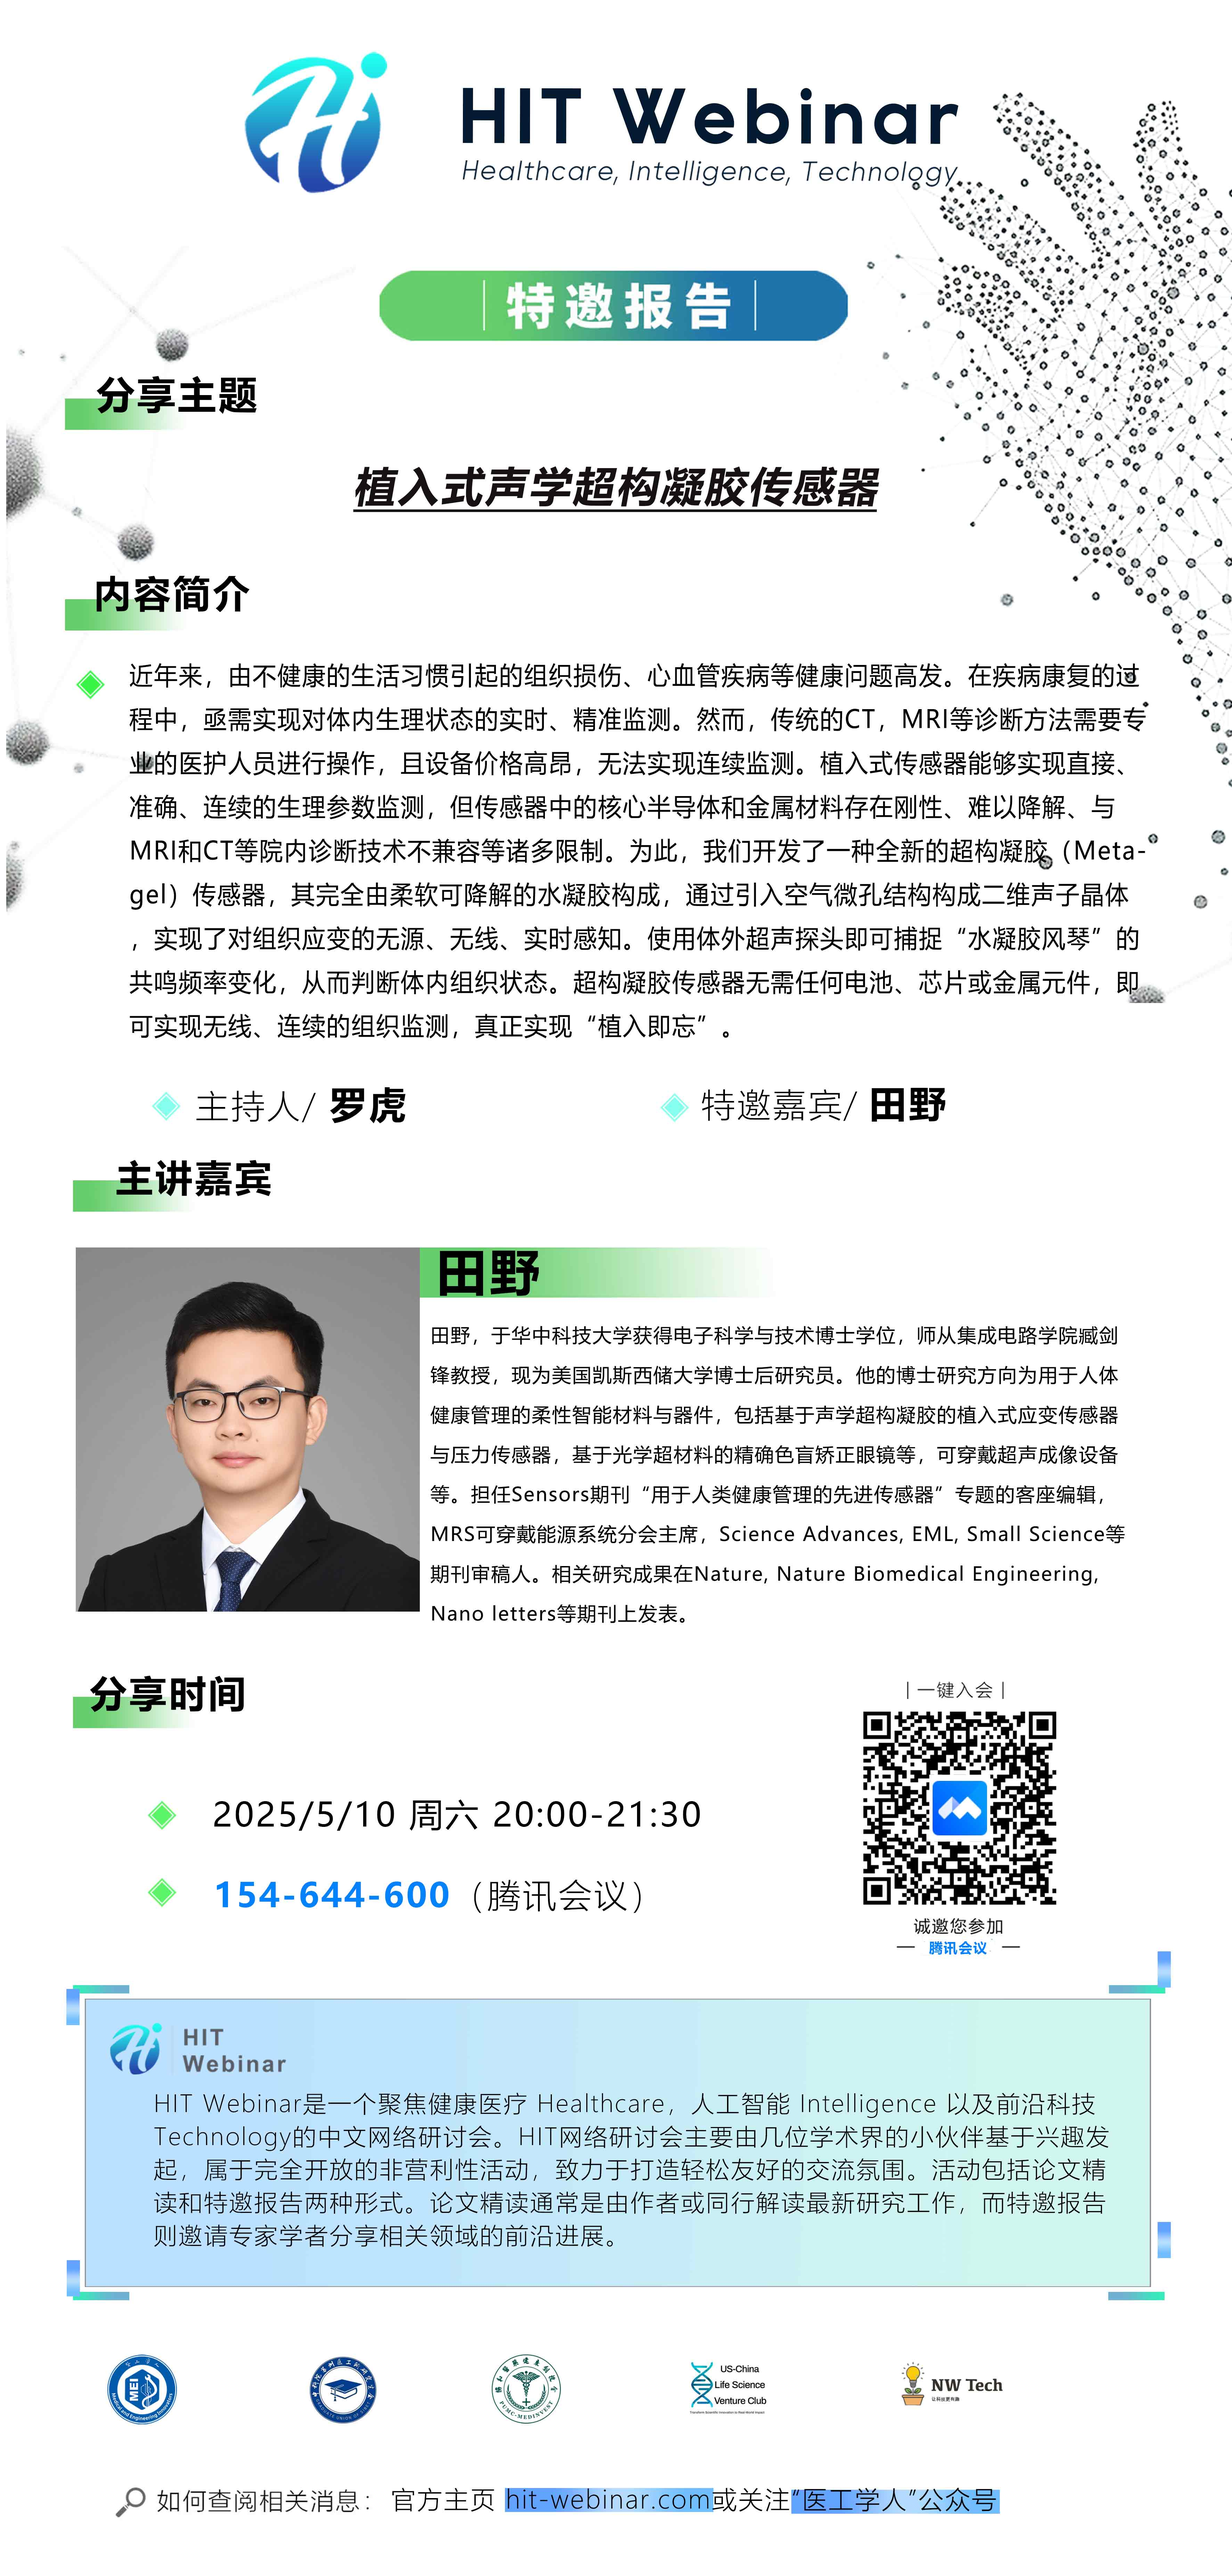
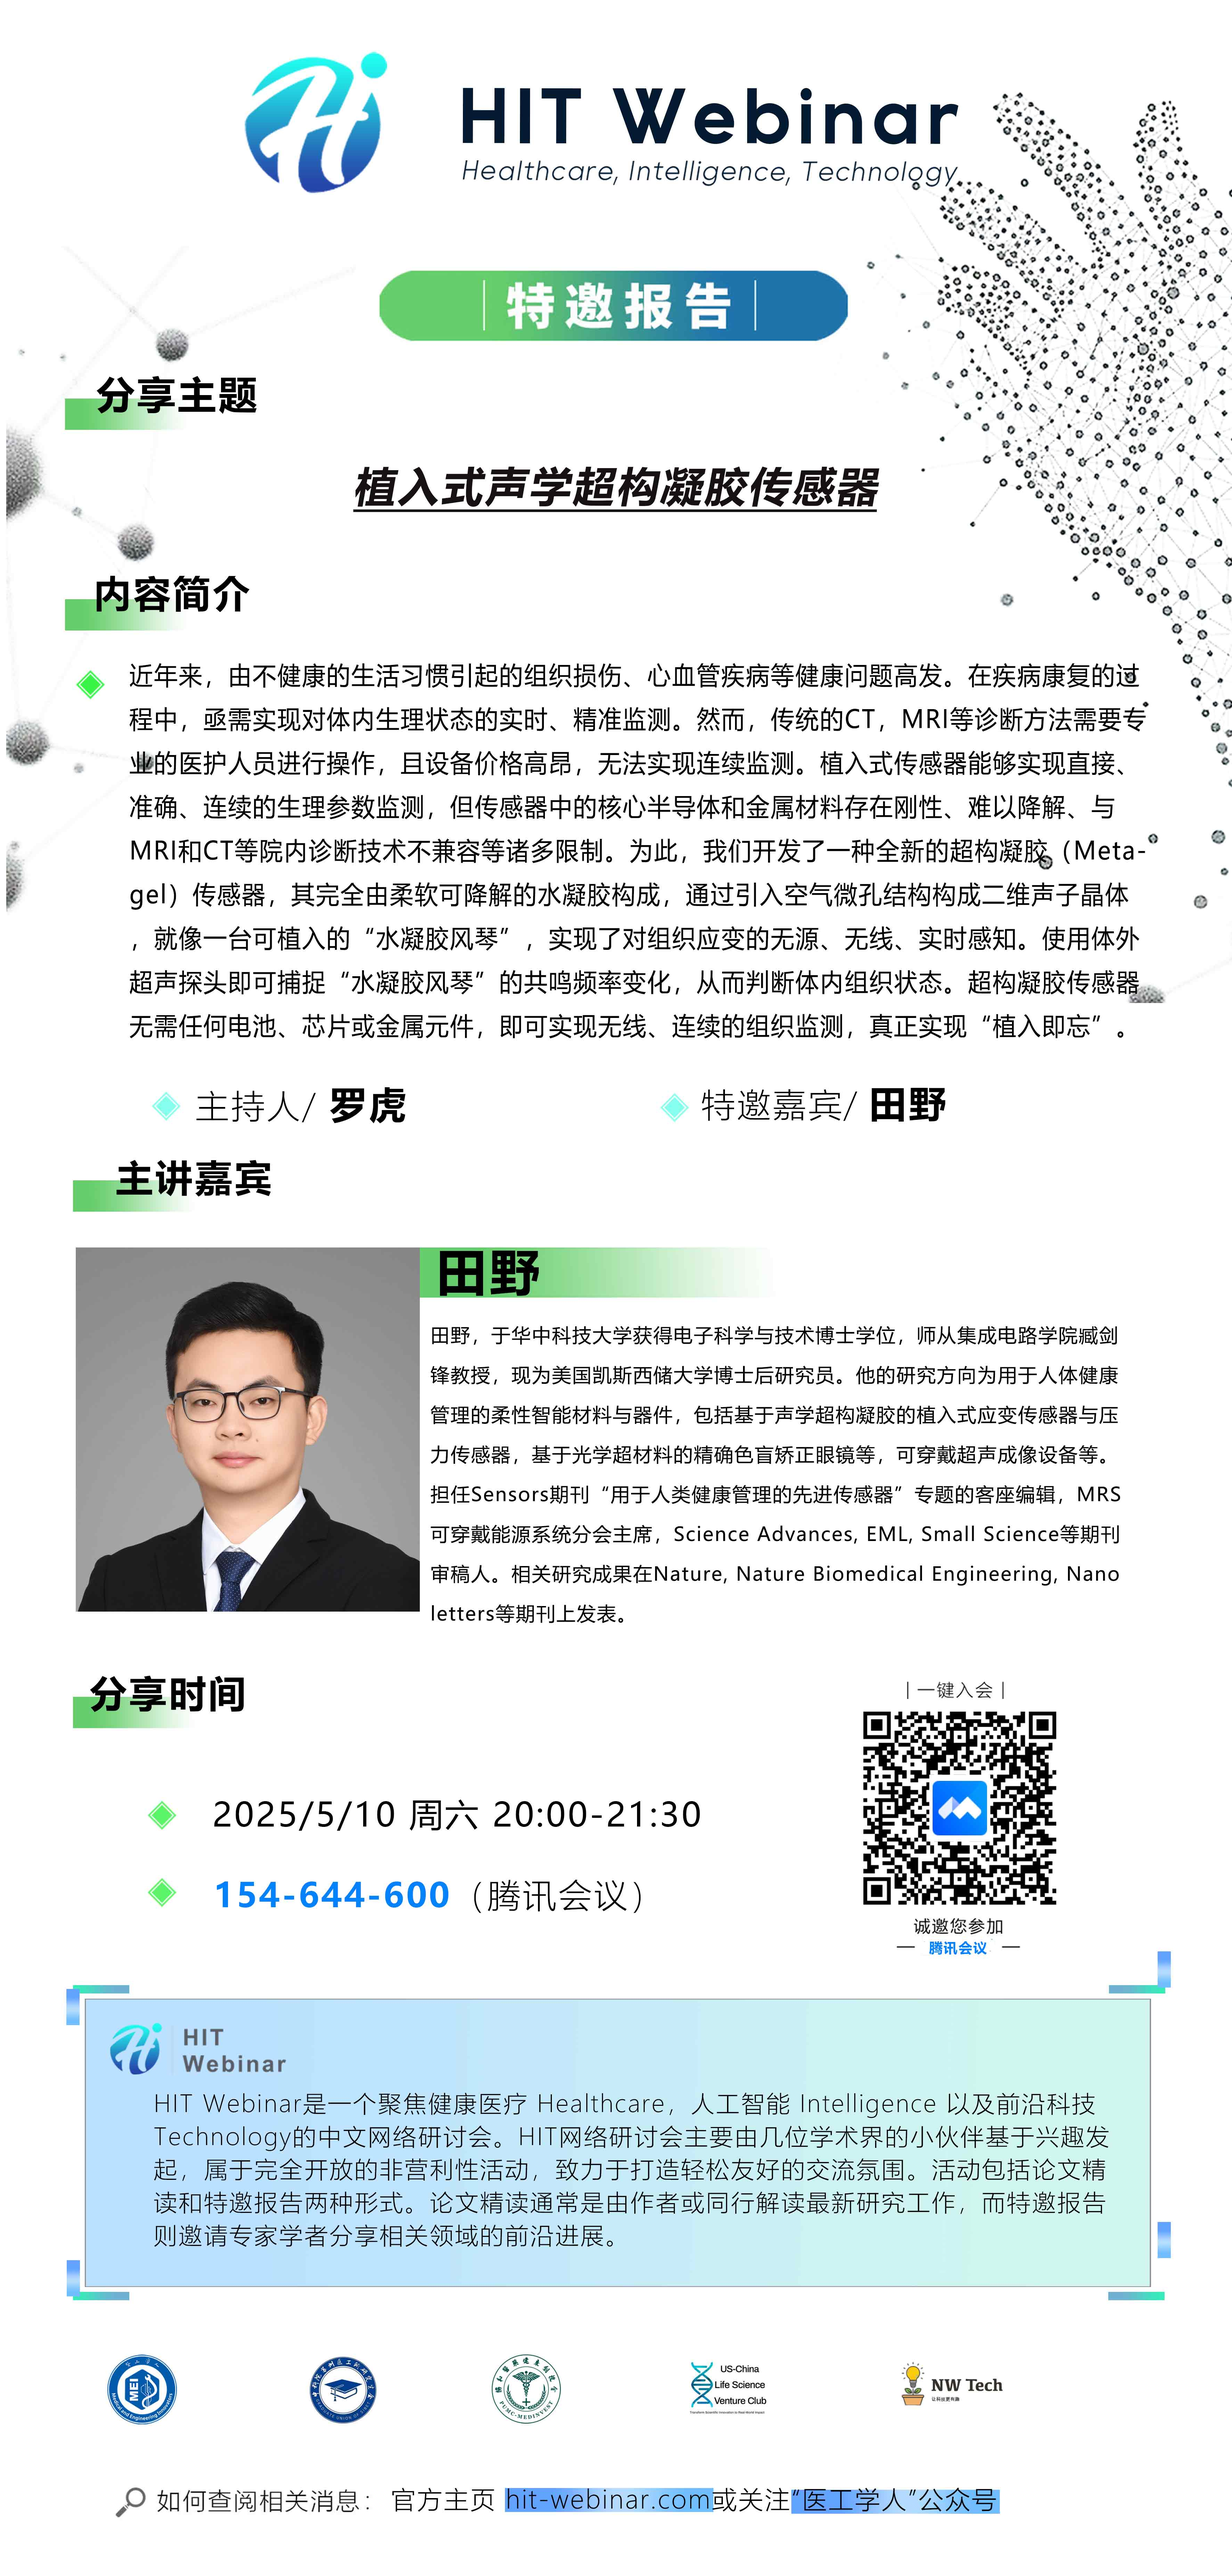
update talk20250510 info and poster

Changed region(s): [[0.3413, 0.5302, 0.8999, 0.6549], [0.0931, 0.3431, 0.9309, 0.4054]]

diff --git a/assets/data.js b/assets/data.js
@@ -38,7 +38,7 @@ const reports = [
             abstract: `
             近年来，由不健康的生活习惯引起的组织损伤、心血管疾病等健康问题高发。在疾病康复的过程中，亟需实现对体内生理状态的实时、精准监测。然而，传统的CT，MRI等诊断方法需要专业的医护人员进行操作，且设备价格高昂，无法实现连续监测。植入式传感器能够实现直接、准确、连续的生理参数监测，但传感器中的核心半导体和金属材料存在刚性、难以降解、与MRI和CT等院内诊断技术不兼容等诸多限制。
             
-            为此，我们开发了一种全新的超构凝胶（Metagel）传感器，其完全由柔软可降解的水凝胶构成，通过引入空气微孔结构构成二维声子晶体，实现了对组织应变的无源、无线、实时感知。使用体外超声探头即可捕捉“水凝胶风琴”的共鸣频率变化，从而判断体内组织状态。超构凝胶传感器无需任何电池、芯片或金属元件，即可实现无线、连续的组织监测，真正实现“植入即忘”。
+            为此，我们开发了一种全新的超构凝胶（Metagel）传感器，其完全由柔软可降解的水凝胶构成，通过引入空气微孔结构构成二维声子晶体，就像一台可植入的“水凝胶风琴”，实现了对组织应变的无源、无线、实时感知。使用体外超声探头即可捕捉“水凝胶风琴”的共鸣频率变化，从而判断体内组织状态。超构凝胶传感器无需任何电池、芯片或金属元件，即可实现无线、连续的组织监测，真正实现“植入即忘”。
             `,
             bio: `
             田野，于华中科技大学获得电子科学与技术博士学位，师从集成电路学院臧剑锋教授，现为美国凯斯西储大学博士后研究员。他的博士研究方向为用于人体健康管理的柔性智能材料与器件，包括基于声学超构凝胶的植入式应变传感器与压力传感器，基于光学超材料的精确色盲矫正眼镜等，可穿戴超声成像设备等。
